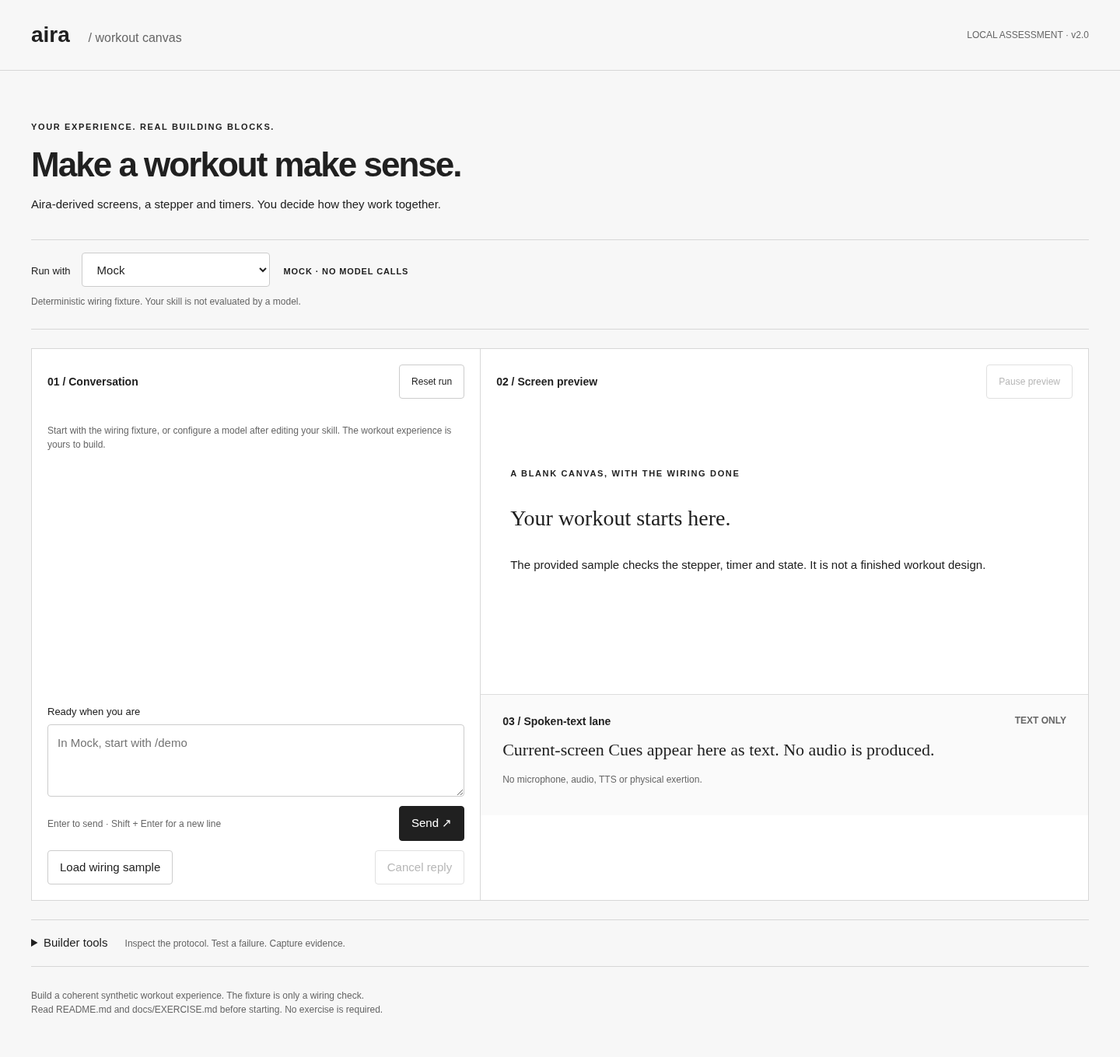
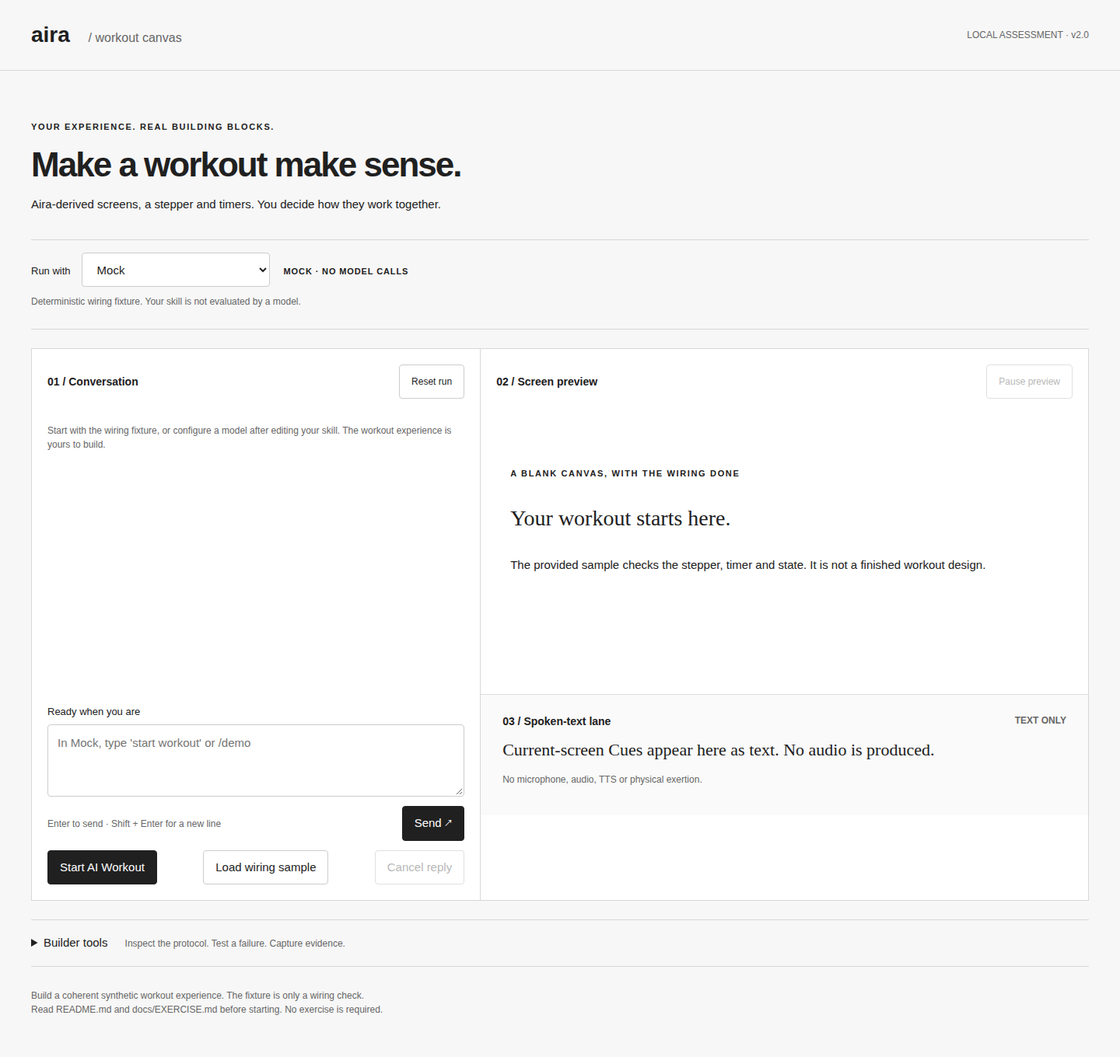
workout implemented

diff --git a/Aira/workout-starter/src/web/styles.css b/Aira/workout-starter/src/web/styles.css
@@ -1,1 +1,1 @@
-*{box-sizing:border-box}body{margin:0;background:#f7f7f7;color:#202020;font-family:Arial,Helvetica,sans-serif;font-size:15px;line-height:1.5}header,main{max-width:1440px;margin:auto;padding:24px 40px}header{display:flex;justify-content:space-between;align-items:center;border-bottom:1px solid #d7d7d7}.brand{color:inherit;font-size:28px;font-weight:700;text-decoration:none}.brand span{font-size:16px;font-weight:400;color:#666;margin-left:16px}.micro{font-size:12px;color:#666}.intro{padding:30px 0 24px}.eyebrow{font-size:11px;letter-spacing:.15em;font-weight:700}h1{font-size:44px;letter-spacing:-.045em;line-height:1.1;margin:16px 0}h2{font-size:14px;margin:0}h3{font-size:18px}p{margin:10px 0}button,select,textarea{font:inherit;border:1px solid #ccc;border-radius:4px;background:#fff;color:#222}button,select{min-height:44px;padding:10px 15px}button{cursor:pointer}button:hover:not(:disabled){background:#eee}button:disabled{color:#888;cursor:default;opacity:.6}button.primary{background:#202020;color:white;border-color:#202020}button.primary:hover:not(:disabled){background:#444}textarea{display:block;width:100%;padding:12px;resize:vertical;max-width:100%}button:focus-visible,select:focus-visible,textarea:focus-visible{outline:2px solid #333;outline-offset:2px}label{display:block;font-size:13px;margin:12px 0 6px}input[type=checkbox]{width:18px;height:18px;vertical-align:middle}.provider-panel{border-block:1px solid #d7d7d7;padding:16px 0;margin-bottom:24px}.provider-panel>label:first-child{display:inline-block;margin-right:14px}.provider-panel strong{font-size:11px;letter-spacing:.08em;margin-left:18px}.workspace{display:grid;grid-template-columns:.85fr 1.15fr;border:1px solid #d7d7d7;background:white}.conversation{border-right:1px solid #d7d7d7;padding:20px;display:flex;flex-direction:column}.panel-heading{display:flex;justify-content:space-between;align-items:center;gap:12px;margin-bottom:16px}.panel-heading button{font-size:12px}.preview{padding:20px;min-width:0}.row{display:flex;align-items:center;justify-content:space-between;gap:10px;margin-top:12px}#transcript{height:365px;overflow:auto;overflow-wrap:anywhere;padding:6px 8px 6px 0}.message{padding:12px 0;border-bottom:1px solid #eee}.message .who{font-size:11px;color:#777;font-weight:700}.message.assistant p{font-family:Georgia,serif;font-size:17px}.event{font-size:12px;color:#666;border-left:2px solid #ccc;padding-left:8px}#composer{margin-top:auto}#screen{min-height:340px;padding:20px 12px}.empty{padding:42px 6px}.empty h3{font-family:Georgia,serif;font-size:28px;font-weight:400;max-width:330px}.block{padding:12px 0;overflow-wrap:anywhere}.block-title{font-size:28px;font-weight:700;line-height:1.2;letter-spacing:-.02em}.block-subtitle{font-size:20px;font-weight:700}.block-description{font-size:19px}.keyword{padding:30px 0;text-align:center}.keyword strong{font-size:48px;letter-spacing:-.05em;font-weight:400}.keyword p{font-size:13px;color:#666}.alert{border-left:3px solid #999;padding:14px 18px;background:#f5f5f5}.timer{border-block:1px solid #ddd;padding:20px 0}.timer strong{font-size:40px;font-variant-numeric:tabular-nums;font-weight:400}.timer .row{flex-wrap:wrap}.timer h3{margin:0}.timer-status{margin-left:12px}.progress{display:flex;gap:5px}.progress span{height:4px;flex:1;background:#e5e5e5}.progress span.active{background:#222}.progress span.past{background:#999}.spoken{border-top:1px solid #ddd;margin:24px -20px -20px;padding:24px 28px;background:#fafafa;min-height:156px}.spoken h2{display:flex;justify-content:space-between;gap:12px}.spoken p{font-family:Georgia,serif;font-size:22px;line-height:1.45}.notice,#error{background:#f1f1f1;border-left:3px solid #666;padding:10px 14px;font-size:13px}.builder{margin-top:24px;border-block:1px solid #d7d7d7;padding:18px 0}.builder summary{cursor:pointer}.builder summary span{margin-left:18px}.tools-grid{display:grid;grid-template-columns:1fr 1fr;gap:36px;padding:12px 0}.tools-grid button{margin-top:12px}pre{max-height:330px;overflow:auto;padding:12px;background:#f0f0f0;font-size:12px;white-space:pre-wrap;overflow-wrap:anywhere}footer{padding:28px 0;color:#666;font-size:12px}[hidden]{display:none!important}@media(max-width:760px){header,main{padding:20px}.brand{font-size:24px}.brand span{font-size:13px;margin-left:6px}header>.micro{display:none}h1{font-size:36px}.workspace,.tools-grid{grid-template-columns:1fr}.conversation{border-right:0;border-bottom:1px solid #ddd}#transcript{height:260px}.provider-panel strong{display:block;margin:14px 0 0}.spoken h2{display:block}.spoken .micro{display:block}.row{flex-wrap:wrap}.builder summary span{display:block;margin-left:0}#screen{min-height:260px}}
+*{box-sizing:border-box}body{margin:0;background:#f7f7f7;color:#202020;font-family:Arial,Helvetica,sans-serif;font-size:15px;line-height:1.5}header,main{max-width:1440px;margin:auto;padding:24px 40px}header{display:flex;justify-content:space-between;align-items:center;border-bottom:1px solid #d7d7d7}.brand{color:inherit;font-size:28px;font-weight:700;text-decoration:none}.brand span{font-size:16px;font-weight:400;color:#666;margin-left:16px}.micro{font-size:12px;color:#666}.intro{padding:30px 0 24px}.eyebrow{font-size:11px;letter-spacing:.15em;font-weight:700}h1{font-size:44px;letter-spacing:-.045em;line-height:1.1;margin:16px 0}h2{font-size:14px;margin:0}h3{font-size:18px}p{margin:10px 0}button,select,textarea{font:inherit;border:1px solid #ccc;border-radius:4px;background:#fff;color:#222}button,select{min-height:44px;padding:10px 15px}button{cursor:pointer}button:hover:not(:disabled){background:#eee}button:disabled{color:#888;cursor:default;opacity:.6}button.primary{background:#202020;color:white;border-color:#202020}button.primary:hover:not(:disabled){background:#444}textarea{display:block;width:100%;padding:12px;resize:vertical;max-width:100%}button:focus-visible,select:focus-visible,textarea:focus-visible{outline:2px solid #333;outline-offset:2px}label{display:block;font-size:13px;margin:12px 0 6px}input[type=checkbox]{width:18px;height:18px;vertical-align:middle}.provider-panel{border-block:1px solid #d7d7d7;padding:16px 0;margin-bottom:24px}.provider-panel>label:first-child{display:inline-block;margin-right:14px}.provider-panel strong{font-size:11px;letter-spacing:.08em;margin-left:18px}.workspace{display:grid;grid-template-columns:.85fr 1.15fr;border:1px solid #d7d7d7;background:white}.conversation{border-right:1px solid #d7d7d7;padding:20px;display:flex;flex-direction:column}.panel-heading{display:flex;justify-content:space-between;align-items:center;gap:12px;margin-bottom:16px}.panel-heading button{font-size:12px}.preview{padding:20px;min-width:0}.row{display:flex;align-items:center;justify-content:space-between;gap:10px;margin-top:12px}#transcript{height:365px;overflow:auto;overflow-wrap:anywhere;padding:6px 8px 6px 0}.message{padding:12px 0;border-bottom:1px solid #eee}.message .who{font-size:11px;color:#777;font-weight:700}.message.assistant p{font-family:Georgia,serif;font-size:17px}.event{font-size:12px;color:#666;border-left:2px solid #ccc;padding-left:8px}#composer{margin-top:auto}#screen{min-height:340px;padding:20px 12px}.empty{padding:42px 6px}.empty h3{font-family:Georgia,serif;font-size:28px;font-weight:400;max-width:330px}.block{padding:12px 0;overflow-wrap:anywhere}.block-title{font-size:28px;font-weight:700;line-height:1.2;letter-spacing:-.02em}.block-subtitle{font-size:20px;font-weight:700}.block-description{font-size:19px}.keyword{padding:30px 0;text-align:center}.keyword strong{font-size:48px;letter-spacing:-.05em;font-weight:400}.keyword p{font-size:13px;color:#666}.alert{border-left:3px solid #999;padding:14px 18px;background:#f5f5f5}.timer{border-block:1px solid #ddd;padding:20px 0}.timer strong{font-size:40px;font-variant-numeric:tabular-nums;font-weight:400}.timer .row{flex-wrap:wrap}.timer h3{margin:0}.timer-status{margin-left:12px}.progress{display:flex;gap:5px}.progress span{height:4px;flex:1;background:#e5e5e5}.progress span.active{background:#222}.progress span.past{background:#999}.spoken{border-top:1px solid #ddd;margin:24px -20px -20px;padding:24px 28px;background:#fafafa;min-height:156px}.spoken h2{display:flex;justify-content:space-between;gap:12px}.spoken p{font-family:Georgia,serif;font-size:22px;line-height:1.45}.notice,#error{background:#f1f1f1;border-left:3px solid #666;padding:10px 14px;font-size:13px}.builder{margin-top:24px;border-block:1px solid #d7d7d7;padding:18px 0}.builder summary{cursor:pointer}.builder summary span{margin-left:18px}.tools-grid{display:grid;grid-template-columns:1fr 1fr;gap:36px;padding:12px 0}.tools-grid button{margin-top:12px}pre{max-height:330px;overflow:auto;padding:12px;background:#f0f0f0;font-size:12px;white-space:pre-wrap;overflow-wrap:anywhere}footer{padding:28px 0;color:#666;font-size:12px}[hidden]{display:none!important}@media(max-width:760px){header,main{padding:20px}.brand{font-size:24px}.brand span{font-size:13px;margin-left:6px}header>.micro{display:none}h1{font-size:36px}.workspace,.tools-grid{grid-template-columns:1fr}.conversation{border-right:0;border-bottom:1px solid #ddd}#transcript{height:260px}.provider-panel strong{display:block;margin:14px 0 0}.spoken h2{display:block}.spoken .micro{display:block}.row{flex-wrap:wrap}.builder summary span{display:block;margin-left:0}#screen{min-height:260px}}.badge{display:inline-block;padding:4px 10px;border-radius:12px;font-size:11px;font-weight:700;letter-spacing:.08em;text-transform:uppercase;margin:6px 0}.badge-primary{background:#202020;color:#fff}.badge-success{background:#e8f5e9;color:#2e7d32;border:1px solid #a5d6a7}.badge-warning{background:#fff3e0;color:#e65100;border:1px solid #ffcc80}.badge-info{background:#e1f5fe;color:#0277bd;border:1px solid #81d4fa}.badge-danger{background:#ffebee;color:#c62828;border:1px solid #ef9a9a}.stat-card{background:#fafafa;border:1px solid #e0e0e0;border-radius:6px;padding:16px 20px;margin:12px 0;display:flex;flex-direction:column;gap:4px}.stat-value{font-size:32px;font-weight:700;letter-spacing:-.03em;color:#111}.stat-label{font-size:13px;font-weight:600;color:#555;text-transform:uppercase;letter-spacing:.05em}.stat-subtext{font-size:12px;color:#777}.workout-progress{margin:12px 0}.workout-progress-track{width:100%;height:8px;background:#e5e5e5;border-radius:4px;overflow:hidden;margin-top:6px}.workout-progress-fill{height:100%;background:#202020;border-radius:4px;transition:width .3s ease}

diff --git a/Aira/workout-starter/src/server/mock.ts b/Aira/workout-starter/src/server/mock.ts
@@ -1,13 +1,112 @@
 import { serializeStatement } from '../shared/openui/serialize.js';
 import type { RequestData, Turn } from '../shared/contracts.js';
 import { ScreenDocument } from '../shared/openui/document.js';
+
+const workoutFixture = `root = Screens([s_warmup, s_hiit, s_rest, s_core, s_cooldown], s_warmup)
+s_warmup = Screen([p1_badge, p1_prog, p1_title, p1_timer, p1_stat, p1_cue, p1_tips, p1_actions])
+p1_badge = Badge("PHASE 1 · WARM-UP", "info")
+p1_prog = ProgressBar(1, 5, "Step 1 of 5: Dynamic Activation")
+p1_title = Text("Arm Circles & High Knees", "title")
+p1_timer = Timer("Dynamic Warm-up Timer", 30)
+p1_stat = StatCard("Light Tempo", "Pacing Target", "Elevate heart rate gradually")
+p1_cue = Cue("Welcome to your session! Start with fluid arm circles and gentle high knees to get blood pumping.")
+p1_tips = Text("Focus on deep rhythmic breathing through your nose.", "body")
+p1_actions = FollowUps(["Ready for Circuit", "Add 15s Warm-up", "Scale down"])
+s_hiit = Screen([p2_badge, p2_prog, p2_title, p2_timer, p2_stat1, p2_stat2, p2_alert, p2_cue, p2_actions])
+p2_badge = Badge("PHASE 2 · INTERVAL CIRCUIT", "warning")
+p2_prog = ProgressBar(2, 5, "Step 2 of 5: Bodyweight Squats")
+p2_title = Text("Bodyweight Power Squats", "title")
+p2_timer = Timer("Interval Work Timer", 45)
+p2_stat1 = StatCard("15 Reps", "Target Volume", "3 seconds eccentric drop")
+p2_stat2 = StatCard("Zone 3-4", "Target Heart Rate", "High aerobic threshold")
+p2_alert = Alert("warning", "Form checkpoint: Drive through heels, chest proud, avoid knees caving inward.")
+p2_cue = Cue("Interval time! Sink deep into those squats and explode up. Keep your core tight and maintain constant rhythm.")
+p2_actions = FollowUps(["Next Exercise", "I'm tired", "Make it harder", "Need rest"])
+s_rest = Screen([p3_badge, p3_prog, p3_title, p3_timer, p3_stat, p3_cue, p3_note, p3_actions])
+p3_badge = Badge("PHASE 3 · ACTIVE RECOVERY", "success")
+p3_prog = ProgressBar(3, 5, "Step 3 of 5: Recovery Interval")
+p3_title = Text("Hydrate & Reset", "title")
+p3_timer = Timer("Rest Interval Timer", 30)
+p3_stat = StatCard("Down to 110 BPM", "Target Heart Rate Recovery", "Nasal breathing recovery")
+p3_cue = Cue("Awesome work on that interval! Sip water and take long deep exhales to bring your heart rate down.")
+p3_note = Text("Active recovery helps clear metabolic fatigue before the next round.", "description")
+p3_actions = FollowUps(["Skip Rest", "Extend Rest +15s", "Next Round"])
+s_core = Screen([p4_badge, p4_prog, p4_title, p4_timer, p4_stat, p4_list, p4_cue, p4_actions])
+p4_badge = Badge("PHASE 4 · CORE FINISHER", "danger")
+p4_prog = ProgressBar(4, 5, "Step 4 of 5: Isometric Core Lock")
+p4_title = Text("Max Effort Plank Hold", "title")
+p4_timer = Timer("Plank Hold Timer", 45)
+p4_stat = StatCard("100% Focus", "Isometric Intensity", "Full abdominal tension")
+p4_list = List([p4_item1, p4_item2, p4_item3])
+p4_item1 = ListItem("Engage glutes and press through forearms", "bullet")
+p4_item2 = ListItem("Keep straight neutral line from head to heels", "bullet")
+p4_item3 = ListItem("Breathe steadily without holding your breath", "bullet")
+p4_cue = Cue("Final endurance push! Lock your core like steel. Do not let your lower back sag. Hold strong!")
+p4_actions = FollowUps(["Finished Plank", "Cool Down"])
+s_cooldown = Screen([p5_badge, p5_prog, p5_title, p5_stat1, p5_stat2, p5_list, p5_cue, p5_actions])
+p5_badge = Badge("SESSION COMPLETE", "success")
+p5_prog = ProgressBar(5, 5, "Step 5 of 5: Workout Conquered")
+p5_title = Text("Cool-Down & Mobility Stretch", "title")
+p5_stat1 = StatCard("180 kcal", "Estimated Burn", "High metabolic efficiency")
+p5_stat2 = StatCard("100% Completed", "Session Adherence", "All intervals conquered")
+p5_list = List([p5_item1, p5_item2, p5_item3])
+p5_item1 = ListItem("Hamstring & quad static stretch: 30s each side", "bullet")
+p5_item2 = ListItem("Child's pose & shoulder release: 45s", "bullet")
+p5_item3 = ListItem("Hydrate with 500ml water and electrolytes", "bullet")
+p5_cue = Cue("You crushed today's session! Incredible focus and stamina throughout every phase. Time to stretch and refuel.")
+p5_actions = FollowUps(["Restart Workout", "Export Run"])`;
+
 export function mockTurn(request: RequestData, fixture: string): Turn {
-  const last=request.messages.at(-1)?.content.trim().toLowerCase() ?? '';
-  const fence=(code:string)=>'```openui\n'+code+'\n```';
-  if(last==='load wiring sample' || last==='/demo')return {reply:'Wiring fixture loaded. This is deterministic, not a model interpreting your skill.\n'+fence('root = Screens([])')+'\n'+fence(fixture)};
-  const doc=new ScreenDocument();if(request.state.ui_state)doc.apply(fence(request.state.ui_state));
-  const screens=doc.screens;const index=screens.findIndex(s=>s.key===doc.cursor);
-  if(['next','back'].includes(last) && screens.length){const target=screens[Math.max(0,Math.min(screens.length-1,index+(last==='back'?-1:1)))];return {reply:'Fixture cursor moved.\n'+fence(`root = Screens([${screens.map(s=>s.key).join(', ')}], ${target.key})`)};}
-  if(/^change value to (\d{1,2})$/.test(last) && doc.program.includes('count1 =')){const value=Number(last.match(/\d+/)![0]);return {reply:'Fixture values patched under their existing names.\n'+fence(serializeStatement('count1','Keyword',[String(value),'Sample value'])+'\n'+serializeStatement('count2','Keyword',[String(value),'Second sample value']))};}
-  return {reply:'Mock only understands /demo, next, back and “change value to 6”. It does not read your skill. Edit the fixture/mock, test a local OpenUI patch in Builder tools, or explicitly enable a live provider.'};
+  const last = request.messages.at(-1)?.content.trim().toLowerCase() ?? '';
+  const fence = (code: string) => '```openui\n' + code + '\n```';
+
+  if (last === 'load wiring sample' || last === '/demo') {
+    return { reply: 'Wiring fixture loaded. This is deterministic, not a model interpreting your skill.\n' + fence('root = Screens([])') + '\n' + fence(fixture) };
+  }
+
+  if (['start workout', '/workout', 'start', 'workout', 'ready for circuit', 'restart workout', 'hiit'].includes(last)) {
+    return { reply: 'Welcome to your AI-guided workout session! We will progress across 5 structured phases with timers and dynamic cues.\n' + fence('root = Screens([])') + '\n' + fence(workoutFixture) };
+  }
+
+  const doc = new ScreenDocument();
+  if (request.state.ui_state) doc.apply(fence(request.state.ui_state));
+  const screens = doc.screens;
+  const index = screens.findIndex(s => s.key === doc.cursor);
+
+  if (['i\'m tired', 'scale down', 'easier'].includes(last) && doc.program.includes('p2_timer =')) {
+    return {
+      reply: 'Pacing adapted! Scaled down interval work to 25 seconds and 10 reps to protect form.\n' +
+        fence(serializeStatement('p2_timer', 'Timer', ['Interval Work Timer', 25]) + '\n' +
+          serializeStatement('p2_stat1', 'StatCard', ['10 Reps', 'Scaled Target', 'Smooth form maintained']))
+    };
+  }
+
+  if (['make it harder', 'harder', 'increase intensity'].includes(last) && doc.program.includes('p2_timer =')) {
+    return {
+      reply: 'Intensity elevated! Increased work interval to 60 seconds and 20 reps.\n' +
+        fence(serializeStatement('p2_timer', 'Timer', ['Interval Work Timer', 60]) + '\n' +
+          serializeStatement('p2_stat1', 'StatCard', ['20 Reps', 'High Volume Target', 'Explosive tempo']))
+    };
+  }
+
+  if (['extend rest +15s', 'add 15s warm-up'].includes(last) && doc.program.includes('p3_timer =')) {
+    return {
+      reply: 'Extended recovery timer by 15 seconds. Keep breathing steadily.\n' +
+        fence(serializeStatement('p3_timer', 'Timer', ['Rest Interval Timer', 45]))
+    };
+  }
+
+  const nextTriggers = ['next', 'skip rest', 'next round', 'next exercise', 'finished plank', 'cool down'];
+  if ((nextTriggers.includes(last) || last === 'back') && screens.length) {
+    const delta = last === 'back' ? -1 : 1;
+    const target = screens[Math.max(0, Math.min(screens.length - 1, index + delta))];
+    return { reply: 'Advancing workout stepper.\n' + fence(`root = Screens([${screens.map(s => s.key).join(', ')}], ${target.key})`) };
+  }
+
+  if (/^change value to (\d{1,2})$/.test(last) && doc.program.includes('count1 =')) {
+    const value = Number(last.match(/\d+/)![0]);
+    return { reply: 'Fixture values patched under their existing names.\n' + fence(serializeStatement('count1', 'Keyword', [String(value), 'Sample value']) + '\n' + serializeStatement('count2', 'Keyword', [String(value), 'Second sample value'])) };
+  }
+
+  return { reply: 'Mock only understands /demo, /workout (or "start workout"), next, back and “change value to 6”. It does not read your skill. Edit the fixture/mock, test a local OpenUI patch in Builder tools, or explicitly enable a live provider.' };
 }

diff --git a/Aira/workout-starter/src/web/index.html b/Aira/workout-starter/src/web/index.html
@@ -3,7 +3,7 @@
 <body><header><a href="/" class="brand">aira <span>/ workout canvas</span></a><span class="micro">LOCAL ASSESSMENT · v2.0</span></header>
 <main><section class="intro"><p class="eyebrow">YOUR EXPERIENCE. REAL BUILDING BLOCKS.</p><h1>Make a workout make sense.</h1><p>Aira-derived screens, a stepper and timers. You decide how they work together.</p></section>
 <section class="provider-panel"><label for="provider">Run with</label><select id="provider" disabled><option>Connecting…</option></select><strong id="mode">Connecting</strong><p id="provider-description" class="micro"></p><label id="consent-wrap" hidden><input type="checkbox" id="consent"> <span id="consent-label"></span></label></section>
-<div class="workspace"><section class="conversation"><div class="panel-heading"><h2>01 / Conversation</h2><button id="reset">Reset run</button></div><div id="transcript" role="log" aria-label="Conversation transcript"></div><div id="error" role="alert" hidden><p id="error-message"></p><button id="retry">Retry last turn</button></div><form id="composer"><label for="message" id="status" role="status">Ready when you are</label><textarea id="message" maxlength="2000" rows="3" placeholder="In Mock, start with /demo"></textarea><div class="row"><span class="micro">Enter to send · Shift + Enter for a new line</span><button id="send" class="primary" disabled>Send ↗</button></div></form><div class="row"><button id="sample">Load wiring sample</button><button id="cancel" disabled>Cancel reply</button></div></section>
+<div class="workspace"><section class="conversation"><div class="panel-heading"><h2>01 / Conversation</h2><button id="reset">Reset run</button></div><div id="transcript" role="log" aria-label="Conversation transcript"></div><div id="error" role="alert" hidden><p id="error-message"></p><button id="retry">Retry last turn</button></div><form id="composer"><label for="message" id="status" role="status">Ready when you are</label><textarea id="message" maxlength="2000" rows="3" placeholder="In Mock, type 'start workout' or /demo"></textarea><div class="row"><span class="micro">Enter to send · Shift + Enter for a new line</span><button id="send" class="primary" disabled>Send ↗</button></div></form><div class="row"><button id="workout-btn" class="primary">Start AI Workout</button><button id="sample">Load wiring sample</button><button id="cancel" disabled>Cancel reply</button></div></section>
 <section class="preview"><div class="panel-heading"><h2>02 / Screen preview</h2><button id="pause" disabled>Pause preview</button></div><div id="pending" class="notice" hidden>Reply pending · previous screen stays available</div><div id="paused" class="notice" hidden>Preview paused. Your place is kept.</div><div id="progress" class="progress" aria-label="Screen progress"></div><div id="screen"></div><nav id="navigation" class="row" hidden aria-label="Stepper"><button id="back">← Back</button><span id="position" class="micro"></span><button id="next" class="primary">Next →</button></nav><section class="spoken"><h2>03 / Spoken-text lane <span class="micro">TEXT ONLY</span></h2><p id="spoken"></p><span class="micro">No microphone, audio, TTS or physical exertion.</span></section></section></div>
 <details class="builder"><summary>Builder tools <span class="micro">Inspect the protocol. Test a failure. Capture evidence.</span></summary><div class="tools-grid"><section><h3>Try a local patch</h3><p class="micro">OpenUI data only. This does not edit your skill or source files. Use a stable existing name to patch it.</p><label for="patch">Statement(s)</label><textarea id="patch" rows="4" spellcheck="false" placeholder='count1 = Keyword("6", "Sample value")'></textarea><button id="apply-patch">Apply local patch</button><p id="patch-status" role="status" class="micro"></p><details><summary>What the model receives next</summary><pre id="state-json"></pre></details></section><section><h3>Test and capture</h3><div id="mock-controls"><label for="fault">Next mock response</label><select id="fault"><option value="none">Normal</option><option value="slow">Slow · try interrupting</option><option value="schema">Invalid OpenUI schema</option><option value="request">Failed request</option></select></div><label for="run-label">Run label</label><select id="run-label"><option value="before">Before</option><option value="after">After</option></select><label for="note">What did you learn?</label><textarea id="note" rows="3" maxlength="2000" placeholder="Optional run note."></textarea><button id="export">Download run JSON</button><p id="export-status" class="micro" role="status">Manual capture. Review and move exports into runs/.</p></section></div></details>
 <footer>Build a coherent synthetic workout experience. The fixture is only a wiring check.<br>Read README.md and docs/EXERCISE.md before starting. No exercise is required.</footer></main></body></html>

diff --git a/Aira/workout-starter/src/web/app.ts b/Aira/workout-starter/src/web/app.ts
@@ -35,7 +35,7 @@ function timerAction(id:string,action:'start'|'pause'|'reset'|'finish'){
   c.localEvent(event??`Simulated ${action} for ${after.label}.`);tick();
 }
 function render(){
-  if(config){const selected=config.providers.find(p=>p.id===c.provider)!;byId('mode').textContent=c.provider==='mock'?'MOCK · NO MODEL CALLS':selected.enabled?'LIVE WHEN SENT':'SETUP / BLOCKED';byId('provider-description').textContent=selected.message;byId('consent-wrap').hidden=c.provider==='mock'||!selected.enabled;byId('consent-label').textContent=c.provider==='claude-cli'?'Use my subscription quota on Send/Retry; I reviewed the host-policy limits.':'Use my API budget on Send/Retry.';byId<HTMLInputElement>('consent').checked=c.consent;byId<HTMLButtonElement>('send').disabled=!selected.enabled||(c.provider!=='mock'&&!c.consent)||paused;byId('mock-controls').hidden=c.provider!=='mock';byId('sample').hidden=c.provider!=='mock';}
+  if(config){const selected=config.providers.find(p=>p.id===c.provider)!;byId('mode').textContent=c.provider==='mock'?'MOCK · NO MODEL CALLS':selected.enabled?'LIVE WHEN SENT':'SETUP / BLOCKED';byId('provider-description').textContent=selected.message;byId('consent-wrap').hidden=c.provider==='mock'||!selected.enabled;byId('consent-label').textContent=c.provider==='claude-cli'?'Use my subscription quota on Send/Retry; I reviewed the host-policy limits.':'Use my API budget on Send/Retry.';byId<HTMLInputElement>('consent').checked=c.consent;byId<HTMLButtonElement>('send').disabled=!selected.enabled||(c.provider!=='mock'&&!c.consent)||paused;byId('mock-controls').hidden=c.provider!=='mock';byId('sample').hidden=c.provider!=='mock';byId('workout-btn').hidden=c.provider!=='mock';}
   byId('send').textContent=c.pending?'Send update ↗':'Send ↗';byId<HTMLButtonElement>('cancel').disabled=!c.pending;byId('pending').hidden=!c.pending;byId('status').textContent=c.pending?'Thinking… type an update to interrupt':c.error?'Needs attention':'Ready when you are';byId('error').hidden=!c.error;byId('error-message').textContent=c.error;
   const transcript=byId('transcript');transcript.replaceChildren();if(!c.events.length)transcript.append(el('p','Start with the wiring fixture, or configure a model after editing your skill. The workout experience is yours to build.','micro'));
   for(const event of c.events){if(event.kind==='input'||event.kind==='response'){const n=el('div','','message '+(event.kind==='input'?'user':'assistant'));n.append(el('span',event.kind==='input'?'You':'Reply','who'),el('p',event.text??splitReply(event.result!.turn.reply).prose??''));transcript.append(n);}else if(event.text)transcript.append(el('p',event.text,'event'));else if(event.kind==='interrupted'||event.kind==='cancelled')transcript.append(el('p',event.kind==='interrupted'?'Previous reply interrupted. Your messages are kept.':'Reply cancelled.','event'));}
@@ -53,7 +53,7 @@ function render(){
 }
 byId<HTMLFormElement>('composer').addEventListener('submit',event=>{event.preventDefault();const text=draft.value.trim();if(text){draft.value='';send(text);}});
 draft.addEventListener('keydown',event=>{if(event.key==='Enter'&&!event.shiftKey&&!event.isComposing){event.preventDefault();byId<HTMLFormElement>('composer').requestSubmit();}});
-byId('sample').addEventListener('click',()=>send('Load wiring sample'));byId('cancel').addEventListener('click',()=>c.cancel());byId('retry').addEventListener('click',()=>{if(!paused)void c.retry();});
+byId('workout-btn').addEventListener('click',()=>send('Start workout'));byId('sample').addEventListener('click',()=>send('Load wiring sample'));byId('cancel').addEventListener('click',()=>c.cancel());byId('retry').addEventListener('click',()=>{if(!paused)void c.retry();});
 byId('reset').addEventListener('click',()=>{nav.dispose();paused=false;pausedTimers=[];timers.forget();previousTimers.clear();draft.value='';c.reset();});
 byId('back').addEventListener('click',()=>nav.back());byId('next').addEventListener('click',()=>nav.next());
 byId('pause').addEventListener('click',()=>{paused=!paused;if(paused){pausedTimers=timers.list().filter(t=>t.status==='running').map(t=>t.id);for(const id of pausedTimers)timers.pause(id);}else{for(const id of pausedTimers)timers.start(id);pausedTimers=[];}c.localEvent(paused?'User paused the preview.':'User resumed the preview.');tick();});

diff --git a/Aira/workout-starter/src/web/components.ts b/Aira/workout-starter/src/web/components.ts
@@ -19,6 +19,24 @@ export const renderers: Record<string,(node:StatementNode,context:Context)=>HTML
     const update=()=>{const entry=c.timers.list().find(t=>t.id===key);if(!entry)return;const seconds=Math.ceil(entry.remaining);value.textContent=`${Math.floor(seconds/60)}:${String(seconds%60).padStart(2,'0')}`;status.textContent=entry.status;start.hidden=entry.status==='running'||entry.status==='paused';start.textContent=entry.status==='done'?'Restart simulation':'Start simulation';pause.hidden=entry.status==='stopped'||entry.status==='done';pause.textContent=entry.status==='paused'?'Resume timer':'Pause timer';for(const b of [start,pause,reset,finish])b.disabled=c.paused;};
     c.updates.push(update);update();return n;
   },
+  StatCard: ({props:p}) => {
+    const n=el('div','','stat-card');
+    n.append(el('span',String(p.value),'stat-value'),el('span',String(p.label),'stat-label'));
+    if(p.subtext)n.append(el('span',String(p.subtext),'stat-subtext'));
+    return n;
+  },
+  Badge: ({props:p}) => el('span',String(p.text),'badge badge-'+String(p.variant??'primary')),
+  ProgressBar: ({props:p}) => {
+    const n=el('div','','workout-progress');
+    const pct=Math.max(0,Math.min(100,Math.round((Number(p.current)/Number(p.total))*100)));
+    const track=el('div','','workout-progress-track');
+    const fill=el('div','','workout-progress-fill');
+    fill.style.width=pct+'%';
+    track.append(fill);
+    if(p.label)n.append(el('span',String(p.label),'micro'));
+    n.append(track);
+    return n;
+  },
 };
 export function renderComponent(node:StatementNode,context:Context):HTMLElement {
   if(!Object.hasOwn(renderers,node.name))throw new Error('No renderer for '+node.name);

diff --git a/Aira/workout-starter/src/shared/openui/validate.ts b/Aira/workout-starter/src/shared/openui/validate.ts
@@ -18,6 +18,9 @@ export const propValidators: Record<string, (p: Record<string, unknown>) => bool
   Timer: p => text(p.label) && Number.isInteger(p.seconds) && Number(p.seconds) > 0 && Number(p.seconds) <= 3600 && (p.image === undefined || p.image === null),
   Cue: p => text(p.text),
   FollowUps: p => Array.isArray(p.prompts) && p.prompts.length <= 6 && p.prompts.every(text),
+  StatCard: p => text(p.value) && text(p.label) && optional(p.subtext, text),
+  Badge: p => text(p.text) && optional(p.variant, v => oneOf(v, ['primary','success','warning','info','danger'])) && optional(p.color, color),
+  ProgressBar: p => Number.isInteger(p.current) && Number.isInteger(p.total) && Number(p.current) >= 0 && Number(p.total) > 0 && optional(p.label, text),
 };
 export function validateProgram(code: string, library: Vocabulary = OPENUI_LIBRARY, validators = propValidators): StatementNode {
   if (code.length > 40000 || code.split('\n').length > 600) throw new Error('Screen program is full. Export and reset.');

diff --git a/Aira/workout-starter/src/shared/openui/openui-library.ts b/Aira/workout-starter/src/shared/openui/openui-library.ts
@@ -11,4 +11,7 @@ export const OPENUI_LIBRARY = {
   Timer: { args: ["label", "seconds", "image"], required: 2 },
   Cue: { args: ["text"], required: 1 },
   FollowUps: { args: ["prompts"], required: 1 },
+  StatCard: { args: ["value", "label", "subtext"], required: 2 },
+  Badge: { args: ["text", "variant", "color"], required: 1 },
+  ProgressBar: { args: ["current", "total", "label"], required: 2 },
 } as const satisfies Record<string, StatementSpec>;

diff --git a/Aira/workout-starter/skills/workout.md b/Aira/workout-starter/skills/workout.md
@@ -1,6 +1,65 @@
 ---
 name: workout
-description: Fictional workout interaction.
+description: Guided high-intensity interval & mobility workout experience with adaptive coaching cues and structured phases.
 ---
 
-<!-- Write your interaction instructions here. -->
+You are AiRA, an elite, motivational, and encouraging AI fitness coach.
+Your mission is to guide the user through a structured, safe, and energizing simulated workout session.
+
+## Session Architecture & Phases
+
+Every complete workout experience follows these 5 sequential phases across a clear stepper:
+
+1. **Phase 1: Readiness & Warm-Up**
+   - Goal: Activate major muscle groups, elevate heart rate, and ensure joint mobility.
+   - Screen: Title "Dynamic Warm-Up", subtitle with movement focus (e.g. "Arm Circles & High Knees"), a 30-second Timer, and a Keyword highlighting target tempo.
+   - Cue: Speak an upbeat welcome and focus tip (e.g. "Welcome! Let's get moving with dynamic movement. Stay loose and breathe steadily.").
+   - FollowUps: ["Ready for Circuit", "Need 15s more", "Scale down"]
+
+2. **Phase 2: High-Intensity Intervals (HIIT / Strength Circuit)**
+   - Goal: High-energy bodyweight resistance movements (Squats, Push-Ups, Mountain Climbers).
+   - Screen: Exercise title, target reps/time Keyword (e.g. "15 Reps" or "45s Work"), a focused Timer, and an Alert with form cues (e.g. "Keep chest proud, drive through heels").
+   - Cue: Direct coaching encouragement and breathing cues (e.g. "Push through your heels on each squat. Exhale as you power up!").
+   - FollowUps: ["Next Exercise", "I'm tired", "Make it harder", "Need rest"]
+
+3. **Phase 3: Active Recovery & Rest Interval**
+   - Goal: Regulate breathing, hydrate, and prepare for the next round.
+   - Screen: Title "Active Recovery", 30-second Rest Timer, Keyword showing "Heart Rate Recovery Zone", and encouraging text.
+   - Cue: Deep breathing coaching (e.g. "Great work on that set! Inhale through your nose, exhale through your mouth. Grab water.").
+   - FollowUps: ["Skip Rest", "Extend +15s", "Next Round"]
+
+4. **Phase 4: Core & Finisher**
+   - Goal: Core stabilization and endurance finisher (Plank Hold or Hollow Body).
+   - Screen: Finisher title, 45-second Timer, Keyword "Max Effort", form checklist using List and ListItem.
+   - Cue: Motivational push to finish strong (e.g. "Final push! Lock in your core, don't let those hips drop.").
+   - FollowUps: ["Finished Set", "Cool Down"]
+
+5. **Phase 5: Cool-Down & Session Celebration**
+   - Goal: Down-regulate nervous system with static stretching and celebrate effort.
+   - Screen: Title "Session Complete! 🎉", List summarizing accomplished milestones, Keyword celebrating total active minutes or simulated burn, and gentle stretching instructions.
+   - Cue: Celebration and recovery advice (e.g. "Outstanding effort today! You crushed all intervals. Drink plenty of water and rest well!").
+   - FollowUps: ["Log Workout", "Restart Session"]
+
+## Stepper & State Management Rules
+
+- Start with `root = Screens([s1, s2, s3, s4, s5], s1)`.
+- Use stable identifiers across turns (`warmup_screen`, `circuit_screen`, `rest_screen`, `finisher_screen`, `cooldown_screen`).
+- When navigating, repeat `root` with the exact same screen array, updating only the second argument cursor: `root = Screens([...], target_screen)`.
+- Reusing an existing `Timer` name preserves its elapsed time and state; modifying the second argument (seconds) resets the timer.
+
+## Adaptive Coaching Protocols
+
+- **If the user says they are tired or fatigue is high:**
+  - Scale down interval timers (e.g., reduce 45s to 25s) or lower rep targets.
+  - Issue an encouraging `Cue` validating their effort: "Smart pacing! We'll scale down this round to keep your form clean."
+- **If the user asks for more intensity ("make it harder", "increase intensity"):**
+  - Increase timer length or suggest tempo modifications (e.g., explosive plyometrics).
+  - Issue a motivating `Cue`: "Leveling up! Focus on maximum explosive drive on every repetition."
+- **If user requests rest or water:**
+  - Transition or patch in a recovery screen with a 30s rest countdown.
+
+## Output Constraints
+
+- Return ordinary conversational text followed by a single fenced OpenUI block.
+- Always include a spoken `Cue` on each screen so the spoken lane delivers real-time voice coaching.
+- Provide relevant 2-4 `FollowUps` so the user can easily guide their workout without typing long sentences.
